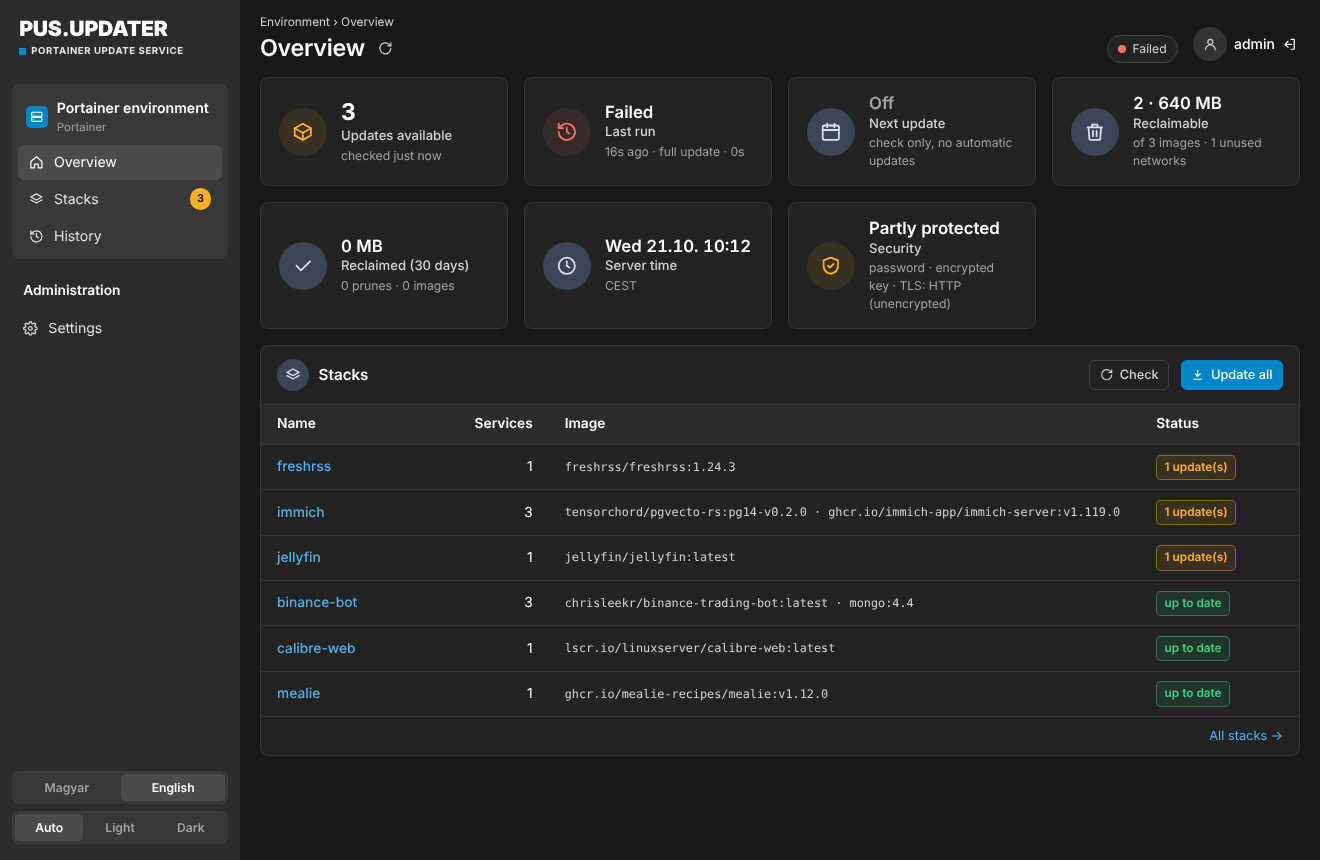
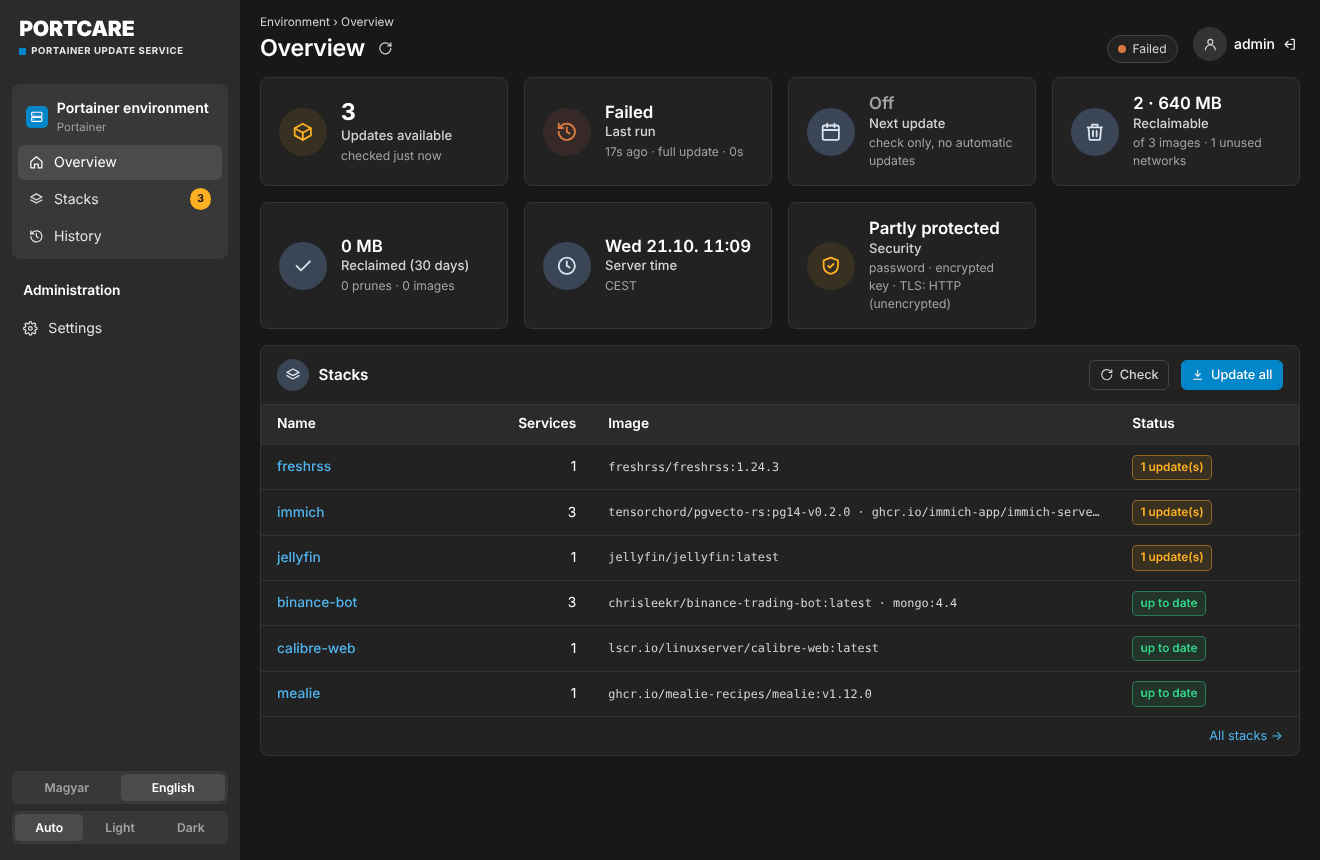
Újratelepítés-ellenőrzés javítása; magyar és angol leírás új képernyőképekkel
- Az újratelepítés kezdőidejét a PUT ELŐTT rögzítjük (a Portainer csak a
  compose up után válaszol, így minden futás 0/N konténerrel időtúllépett)
- Változatlan (nem újra létrehozott) konténereket is elfogad türelmi idő után
- README.md (magyar) + README.en.md (angol), új képernyőképek

Claude-Session: https://claude.ai/code/session_01VWS2oWjkyhZQjmj8Ze6kKn

diff --git a/tests/test_checker_redeploy_api.py b/tests/test_checker_redeploy_api.py
@@ -136,3 +136,44 @@ class TestApiSmoke:
     def test_run_log_path_traversal_blocked(self, client):
         r = client.get("/api/runs/..%2f..%2fetc%2fpasswd/log")
         assert r.status_code in (400, 404)  # never 200
+
+class TestRedeployReadinessTiming:
+    """Regression: Portainer's PUT returns only AFTER compose up, so the
+    recreated containers are older than the HTTP 200. They must count."""
+
+    def _stack(self):
+        return {"Id": 46, "Name": "immich", "EndpointId": 3, "Env": [], "GitConfig": None}
+
+    def test_containers_created_during_put_count(self, fake_client, tmp_state, monkeypatch):
+        import time as _t
+        from app.updater import redeploy_single_stack
+        compose = "services:\n  a:\n    image: x:1\n  b:\n    image: y:1\n"
+        c = fake_client(stacks=[self._stack()], stack_files={46: compose},
+                        containers=[{"Id": "old", "State": "running", "Status": "Up 3 days",
+                                     "Labels": {"com.docker.compose.project": "immich"}, "Created": 1}])
+
+        def put(stack_id, eid, content, env):
+            now = _t.time()
+            c.containers = [{"Id": n, "State": "running", "Status": "Up 1 second",
+                             "Labels": {"com.docker.compose.project": "immich"}, "Created": now}
+                            for n in ("a", "b")]
+            _t.sleep(0.5)  # PUT returns a bit after compose up
+        c.update_stack = put
+        c.inspect_container = lambda cid, eid=None: {"State": {"Status": "running"}}
+        start = _t.time()
+        assert redeploy_single_stack(c, self._stack(), 3, lambda m: None) is True
+        assert _t.time() - start < 5
+
+    def test_unchanged_containers_accepted_after_grace(self, fake_client, tmp_state, monkeypatch):
+        import app.updater as up
+        compose = "services:\n  a:\n    image: x:1\n"
+        c = fake_client(stacks=[self._stack()], stack_files={46: compose},
+                        containers=[{"Id": "a", "State": "running", "Status": "Up 3 days",
+                                     "Labels": {"com.docker.compose.project": "immich"}, "Created": 1}])
+        c.inspect_container = lambda cid, eid=None: {"State": {"Status": "running"}}
+        clock = {"t": 1_000_000.0}
+        monkeypatch.setattr(up.time, "time", lambda: clock["t"])
+        monkeypatch.setattr(up.time, "sleep", lambda s: clock.__setitem__("t", clock["t"] + s))
+        logs = []
+        assert up.redeploy_single_stack(c, self._stack(), 3, logs.append) is True
+        assert any("unchanged" in l for l in logs)

diff --git a/app/updater.py b/app/updater.py
@@ -365,6 +365,11 @@ def redeploy_single_stack(client, stack, eid, log) -> bool:
     except Exception as e:  # noqa: BLE001 - snapshotting must never kill the run
         log(f"[WARN] {name}: rollback snapshot failed ({e}) - continuing.")
 
+    # Take the reference time BEFORE the PUT: Portainer answers only after
+    # `compose up` has finished, so containers recreated by this deploy have
+    # a Created timestamp BEFORE the HTTP 200 (measuring after the PUT made
+    # every real redeploy look like "0/N new containers" until the timeout).
+    redeploy_started = time.time() - 2
     try:
         if stack.get("GitConfig"):
             # git-based stack: the StackFileContent PUT would DETACH it from
@@ -381,18 +386,28 @@ def redeploy_single_stack(client, stack, eid, log) -> bool:
     # Only containers created AFTER this moment count as "the redeploy's"
     # containers - the old set would otherwise satisfy the wait instantly
     # (that made runs look "done" in 1s while the pull was still going).
-    redeploy_started = time.time()
     log(f"[INFO] {name}: HTTP 200, verifying containers...")
     deadline = time.time() + int(get("deploy_wait_time", 300))
     interval = 5
     expected = n_services
     last_report = 0.0
+    put_done = time.time()
     while time.time() < deadline:
         ready, total = _containers_ready(client, project, eid, log,
                                          created_after=redeploy_started)
         if ready >= expected and ready > 0:
             log(f"[OK] {name}: all {expected} services ready.")
             return True
+        # compose only recreates services whose image/config changed: when
+        # nothing (or only part) was recreated, the untouched containers are
+        # still the current ones. After a short grace period accept the
+        # whole project if every expected service is up and ready.
+        if time.time() - put_done >= 20:
+            all_ready, all_total = _containers_ready(client, project, eid, log)
+            if all_ready >= expected and all_ready > 0:
+                log(f"[OK] {name}: all {expected} services ready "
+                    f"({ready} recreated, {all_ready - ready} unchanged).")
+                return True
         if log and time.time() - last_report >= 30:
             last_report = time.time()
             log(f"[INFO] {name}: waiting... {ready}/{expected} new container(s) ready so far")

diff --git a/README.en.md b/README.en.md
@@ -1,0 +1,199 @@
+# PortCare – Portainer Update Service, localized and hardened
+
+[Magyar](README.md) · **English**
+
+A web UI that keeps your Portainer stacks up to date. It shows which images have a newer version and updates them on a schedule or by hand. Every run backs up Portainer first, a service can be pinned to a version in one click, and a broken update can be rolled back.
+
+This is a fork of [joshmadison/Portainer-Update-Service](https://github.com/joshmadison/Portainer-Update-Service) (MIT). What's new:
+
+- **Hungarian and English UI**, switchable in one click
+- **Portainer-style look**: dark sidebar with an environment box, widget panels and tables, in a light and a dark theme
+- **Light and dark theme**, following the system setting by default
+- **Mobile layout**: bottom tab bar, card-style stack list, bottom sheet
+- **Mandatory login**: viewing needs the password too, not just changes
+- **Encrypted secrets**: the Portainer API key and the webhook URL are stored encrypted in `config.yaml`
+- **TLS certificate pinning**: works with Portainer's self-signed certificate and with IP addresses
+- **Optional scheduler**: "notify only" mode, you start the update yourself
+- **Per-stack update rules**: default, notify only, own day/time, or ignored
+- **Phone app (PWA) and push notifications**: installable on iPhone and Android, notifies about new updates, finished runs and failures
+- **Everything is set in the web UI**: the stack's `PUS_*` variables only seed the initial defaults
+- **Prebuilt image** for amd64 and arm64 (GHCR), nothing to build on the NAS
+
+<p align="center">
+  <img src="docs/screenshots/en-dashboard-dark.png" alt="Overview, dark theme" width="100%">
+</p>
+
+| Stacks and update rules | Rule for one stack |
+|---|---|
+| <img src="docs/screenshots/en-stacks.png" alt="Stacks" width="100%"> | <img src="docs/screenshots/en-policy.png" alt="Update rule" width="100%"> |
+
+| Mobile: stacks | Mobile: app & push (HU) | Mobile: install guide (HU) |
+|---|---|---|
+| <img src="docs/screenshots/en-mobile-stacks.png" width="100%"> | <img src="docs/screenshots/hu-mobile-push.png" width="100%"> | <img src="docs/screenshots/hu-mobile-install.png" width="100%"> |
+
+---
+
+## Install with Portainer
+
+1. **Portainer → Stacks → Add stack → Web editor**, paste:
+
+```yaml
+services:
+  update-service:
+    image: ghcr.io/czdanika/portcare:latest
+    container_name: portainer-update-service
+    restart: unless-stopped
+    ports:
+      - "8742:8090"            # host port : container port
+    environment:
+      TZ: "Europe/Budapest"
+      # Optional: the first admin password. If omitted, you create it in the UI on first start.
+      # PUS_AUTH_TOKEN: "a-long-password"
+    volumes:
+      - pus-data:/app/data     # state, history, backups, encryption + push keys
+      - pus-config:/app/config # settings (config.yaml)
+
+volumes:
+  pus-data:
+  pus-config:
+```
+
+2. **Deploy the stack**, then open `http://<nas-ip>:8742`.
+3. On first start, **create an admin password** (at least 8 characters), or sign in with `PUS_AUTH_TOKEN` if you set it.
+4. **Settings → Portainer connection**:
+   - URL: `https://<nas-ip>:9443`, or whatever address you open Portainer with in the browser (e.g. `http://<nas-ip>:8181/portainer`)
+   - API key: Portainer → *My account* → *Access tokens* → *Add access token*. Create it with an admin user.
+5. **Settings → TLS certificate** (https only): choose *Pin certificate*, press *Fetch certificate*, then *Pin this one*.
+6. **Schedule**: the default is *Off – notify only*. For automatic updates, pick a day and time. Before that, set fragile stacks (databases, Immich, …) to *Notify only*.
+7. **Save**. The first check starts automatically.
+
+> The Docker socket is **not** mounted and not needed. Checks, backups, pruning and redeploys all go through the Portainer API. The socket is only needed to update Portainer itself (*Also update Portainer*), which is not recommended for security reasons.
+
+### Updating PortCare
+
+The image is rebuilt on every change to `main`. PortCare excludes its own stack from regular runs. Update it with **Settings → Update PortCare**, or in Portainer: *Stack → Update → Re-pull image*.
+
+---
+
+## Schedule and per-stack rules
+
+- **Default schedule** (*Settings → Default schedule*): off (notify only), daily, weekly or every N hours. It applies to every stack that has no rule of its own.
+- **Per-stack rule** (*Stacks* → the label under the stack name, or *Manage*):
+
+| Rule | What it does |
+|---|---|
+| Default | Updated by the default schedule. |
+| Notify only | Checked and flagged, but only updated by hand. |
+| Own schedule | Updated on its own day and time (daily or weekly). |
+| Ignored | Not checked, not updated. |
+
+**"Update all"** redeploys stacks with the *Default* and *Own schedule* rules. *Notify only* and *Ignored* stacks are only updated with their own *Update* button.
+
+### Environment variables vs. the UI
+
+`PUS_*` values in the stack **only seed the initial defaults**. Once you save a setting in the UI, the saved value wins. `PUS_AUTH_TOKEN` becomes the first admin password; afterwards the password is changed in the UI. Exceptions: `PUS_LISTEN_HOST` and `PUS_LISTEN_PORT` always come from the stack.
+
+---
+
+## Phone app and push notifications
+
+PortCare can be installed as an app (PWA), without any app store:
+
+- **iPhone / iPad (Safari):** *Share* → *Add to Home Screen* → *Add*.
+- **Android (Chrome):** the UI offers an *Install* button, or menu (⋮) → *Install app*.
+- In the UI: **Settings → Phone app & push notifications → Install as app**.
+
+Push (standard Web Push, VAPID): **Settings → Phone app & push notifications → Enable**, per device. Three events can be switched:
+
+- new update available (on a scheduled check, each set only once),
+- update finished (with the list of updated stacks),
+- update failed.
+
+*Test notification* arrives after 5 seconds, so you can close the app in the meantime.
+
+> **Important:** browsers only allow push and service workers on **HTTPS**. The local `http://192.168.x.x:8742` address is not enough. Two options:
+> - **Cloudflare Tunnel**: e.g. `https://portcare.example.com` → `http://<nas-ip>:8742`. Login is mandatory, so this is fine; adding Cloudflare Access is recommended.
+> - **Tailscale HTTPS**: `tailscale serve --bg 8742` on the NAS, then `https://<nas>.<tailnet>.ts.net`.
+>
+> On iPhone, notifications only work in the Home-Screen app (iOS 16.4 or later).
+
+**Where push comes from:** *Settings → Phone app & push notifications* has two fields:
+
+- **Public address**, e.g. `https://portcare.example.com`: tapping a notification opens this address, and pushes are sent on behalf of this domain. Install the phone app from this address too.
+- **Contact**: e-mail or `https://domain`. Apple's and Google's push services see this as the sender. If empty, the public address's domain is used; if that is empty too, a neutral noreply address.
+
+The VAPID key is created on first use in the `pus-data` volume (`keys/vapid_private.pem`); subscriptions are in `push.json`.
+
+---
+
+## Security
+
+| Area | Solution |
+|---|---|
+| Login | Every `/api/*` call requires a login. The session is a signed, `HttpOnly`, `SameSite=Strict` cookie, valid for 30 days by default. Scripts can use `Authorization: Bearer <password>`. |
+| Password | Stored as a PBKDF2 hash, never in plain text. `PUS_AUTH_TOKEN` only sets the first password. Changing the password invalidates other sessions. |
+| Brute force | After 5 failed attempts, an exponentially growing lockout applies (max. 15 minutes). |
+| CSRF | State-changing requests need a same-origin `Origin` and the `X-PUS-Request` header. |
+| Secrets | `portainer_api_key` and `notify_webhook` are stored encrypted (`enc:v1:…`, Fernet/AES). The key lives in **another volume** (`/app/data/keys`) than `config.yaml` (`/app/config`). Old plain-text values are encrypted on the next save. `config.yaml` is `0600`. |
+| Environment variables | `PUS_*` values are initial defaults only. They are not written to `config.yaml` until you change them in the UI. |
+| TLS | Certificate pinning (SHA-256 fingerprint) works with self-signed certificates and IP addresses. If the certificate changes, the connection fails and the UI says so. Upstream bug fixed: `tls_verify: true` without a CA did *not* actually verify. |
+
+Recommendation: don't expose the UI to the internet without extra protection. A LAN or VPN (e.g. Tailscale) is enough.
+
+### Encryption key
+
+Created on first start at `/app/data/keys/secret.key`. If the `pus-data` volume is lost, re-enter the saved API key (the UI tells you). `PUS_SECRET_KEY` sets a fixed key instead.
+
+---
+
+## Environment variables
+
+| Variable | Default | Description |
+|---|---|---|
+| `PUS_AUTH_TOKEN` / `PUS_ADMIN_PASSWORD` | – | The first admin password. Can be changed in the UI afterwards. |
+| `PUS_RESET_PASSWORD` | – | Forgot the password? Set to `true`: on start, `PUS_AUTH_TOKEN` becomes the new password. Remove the line afterwards. |
+| `PUS_SECRET_KEY` | automatic | Encryption key (any string). |
+| `PUS_PORTAINER_URL` | – | Portainer address (also set in the UI). |
+| `PUS_PORTAINER_API_KEY` | – | Portainer API key (also set in the UI). |
+| `PUS_PORTAINER_ENDPOINT_ID` | automatic | Portainer environment ID. |
+| `PUS_TLS_FINGERPRINT` | – | SHA-256 fingerprint of Portainer's certificate. |
+| `PUS_UPDATE_SCHEDULE_MODE` | `off` | `off` (notify only), `daily`, `weekly` or `interval`. |
+| `PUS_UPDATE_SCHEDULE_DAY` / `_TIME` | `0` / `03:30` | Day (0 = Monday) and time. |
+| `PUS_UPDATE_INTERVAL_HOURS` | `168` | Interval between updates in `interval` mode. |
+| `PUS_CHECK_INTERVAL_HOURS` | `12` | How often to check the registries. |
+| `PUS_NOTIFY_WEBHOOK` | – | Notification URL (JSON POST). |
+| `PUS_NOTIFY_ON_UPDATES` | `false` | Also send the webhook for new updates. |
+| `PUS_MAX_PARALLEL_DEPLOYS` | `3` | How many stacks are redeployed at once. |
+| `PUS_KEEP_BACKUPS` | `5` | Number of Portainer backups to keep. |
+| `PUS_PUBLIC_URL` | – | Public HTTPS address: notification link and push sender (also set in the UI). |
+| `PUS_NOTIFY_CONTACT` | – | Contact for the push services (e-mail or `https://domain`, also set in the UI). |
+| `PUS_SESSION_DAYS` | `30` | Login lifetime in days. |
+| `PUS_COOKIE_SECURE` | `false` | `true` if the UI is served over HTTPS only (behind a reverse proxy). |
+| `TZ` | `UTC` | Time zone for the schedule. |
+
+### Webhook format
+
+```json
+{"event": "updates_available", "title": "3 container update(s) available", "count": 3,
+ "updates": [{"stack": "immich", "service": "immich-server", "image": "…:v1.119.0", "latest": "v1.120.2"}]}
+```
+
+```json
+{"event": "update_failed", "title": "Portainer update run FAILED", "run_id": "…", "steps": […]}
+```
+
+In Home Assistant, an automation with a **Webhook** trigger receives it at `https://<ha>/api/webhook/<id>`; forward `{{ trigger.json.title }}` as a notification.
+
+---
+
+## Development
+
+```bash
+pip install -r requirements.txt pytest pytest-timeout
+python -m pytest tests -q
+PUS_LISTEN_HOST=127.0.0.1 python run.py   # http://127.0.0.1:8090
+```
+
+## License
+
+MIT. Original author: Josh Madison ([upstream README](docs/UPSTREAM_README.md)). Changes are released under the same license.

diff --git a/README.md b/README.md
@@ -1,5 +1,7 @@
 # PortCare – Portainer Update Service, magyarul és biztonságosabban
 
+**Magyar** · [English](README.en.md)
+
 Webes felület a Portainer stackek frissítéséhez. Megmutatja, melyik image-hez jelent meg újabb verzió, és ütemezve vagy kézzel frissít. Minden futás előtt lementi a Portainert, egy service verzióját egy kattintással rögzítheted, egy elromlott frissítés után pedig visszaállhatsz.
 
 Ez a [joshmadison/Portainer-Update-Service](https://github.com/joshmadison/Portainer-Update-Service) (MIT) forkja. Ami benne új:
@@ -19,13 +21,16 @@ Ez a [joshmadison/Portainer-Update-Service](https://github.com/joshmadison/Porta
 - **Előre megépített image** amd64-re és arm64-re (GHCR), a NAS-on nem kell semmit buildelni
 
 <p align="center">
-  <img src="docs/screenshots/hu-dashboard-light.png" alt="Áttekintés, világos téma" width="68%">
-  <img src="docs/screenshots/hu-mobile-stacks.png" alt="Stackek mobilon" width="24%">
+  <img src="docs/screenshots/hu-dashboard.png" alt="Áttekintés, világos téma" width="100%">
 </p>
-<p align="center">
-  <img src="docs/screenshots/en-dashboard-dark.png" alt="Overview, dark theme" width="68%">
-  <img src="docs/screenshots/hu-mobile-sheet.png" alt="Verzióváltás mobilon" width="24%">
-</p>
+
+| Stackek és frissítési szabályok | Szabály egy stackre |
+|---|---|
+| <img src="docs/screenshots/hu-stacks-dark.png" alt="Stackek" width="100%"> | <img src="docs/screenshots/hu-policy-dark.png" alt="Frissítési szabály" width="100%"> |
+
+| Mobil: stackek | Mobil: app és push | Mobil: telepítés | Belépés |
+|---|---|---|---|
+| <img src="docs/screenshots/hu-mobile-stacks.png" width="100%"> | <img src="docs/screenshots/hu-mobile-push.png" width="100%"> | <img src="docs/screenshots/hu-mobile-install.png" width="100%"> | <img src="docs/screenshots/hu-login.png" width="100%"> |
 
 ---
 
@@ -43,7 +48,7 @@ services:
       - "8742:8090"            # NAS-port : konténer-port
     environment:
       TZ: "Europe/Budapest"
-      # Opcionális: fix admin jelszó. Ha kihagyod, első indításkor a felületen kell megadni.
+      # Opcionális: az első admin jelszó. Ha kihagyod, első indításkor a felületen adod meg.
       # PUS_AUTH_TOKEN: "egy-hosszu-jelszo"
     volumes:
       - pus-data:/app/data     # állapot, előzmények, mentések, titkosító kulcs
@@ -55,9 +60,9 @@ volumes:
 ```
 
 2. **Deploy the stack**, majd nyisd meg a `http://<nas-ip>:8742` címet.
-3. Első indításkor **admin jelszót** kell létrehozni (legalább 8 karakter).
+3. Első indításkor **admin jelszót** kell létrehozni (legalább 8 karakter), vagy ha megadtad a `PUS_AUTH_TOKEN`-t, azzal lépsz be.
 4. **Beállítások → Portainer kapcsolat**:
-   - URL: `https://<nas-ip>:9443`
+   - URL: `https://<nas-ip>:9443`, vagy amin a Portainert a böngészőben megnyitod (pl. `http://<nas-ip>:8181/portainer`)
    - API kulcs: Portainer → *My account* → *Access tokens* → *Add access token*. Admin felhasználóval kell létrehozni.
 5. **Beállítások → TLS tanúsítvány**: válaszd a *Tanúsítvány rögzítése* módot, nyomd meg a *Tanúsítvány lekérése* gombot, aztán az *Ezt rögzítem* gombot.
 6. **Ütemezés**: az alapbeállítás *Kikapcsolva – csak jelez*. Ha automatikus frissítést szeretnél, válassz napot és időpontot. Előtte a törékeny service-eket (adatbázisok, Immich stb.) rögzítsd a *Verzió* gombbal.
@@ -110,7 +115,7 @@ Push értesítés (szabványos Web Push, VAPID): **Beállítások → Telefonos 
 A *Próbaértesítés* 5 másodperc múlva érkezik, közben be lehet zárni az appot.
 
 > **Fontos:** a böngészők csak **HTTPS** kapcsolaton engedik a push értesítést és a service workert. A helyi `http://192.168.x.x:8742` cím ehhez nem elég. Két lehetőség:
-> - **Cloudflare Tunnel**: például `https://portcare.example.hu` → `http://<nas-ip>:8742`. A belépés kötelező, ezért ez is biztonságos, de érdemes Cloudflare Access-szel is védeni.
+> - **Cloudflare Tunnel**: például `https://portcare.example.com` → `http://<nas-ip>:8742`. A belépés kötelező, ezért ez is biztonságos, de érdemes Cloudflare Access-szel is védeni.
 > - **Tailscale HTTPS**: `tailscale serve --bg 8742` a NAS-on, majd `https://<nas>.<tailnet>.ts.net`.
 >
 > iPhone-on az értesítés csak a főképernyőre telepített appban működik (iOS 16.4 vagy újabb).
